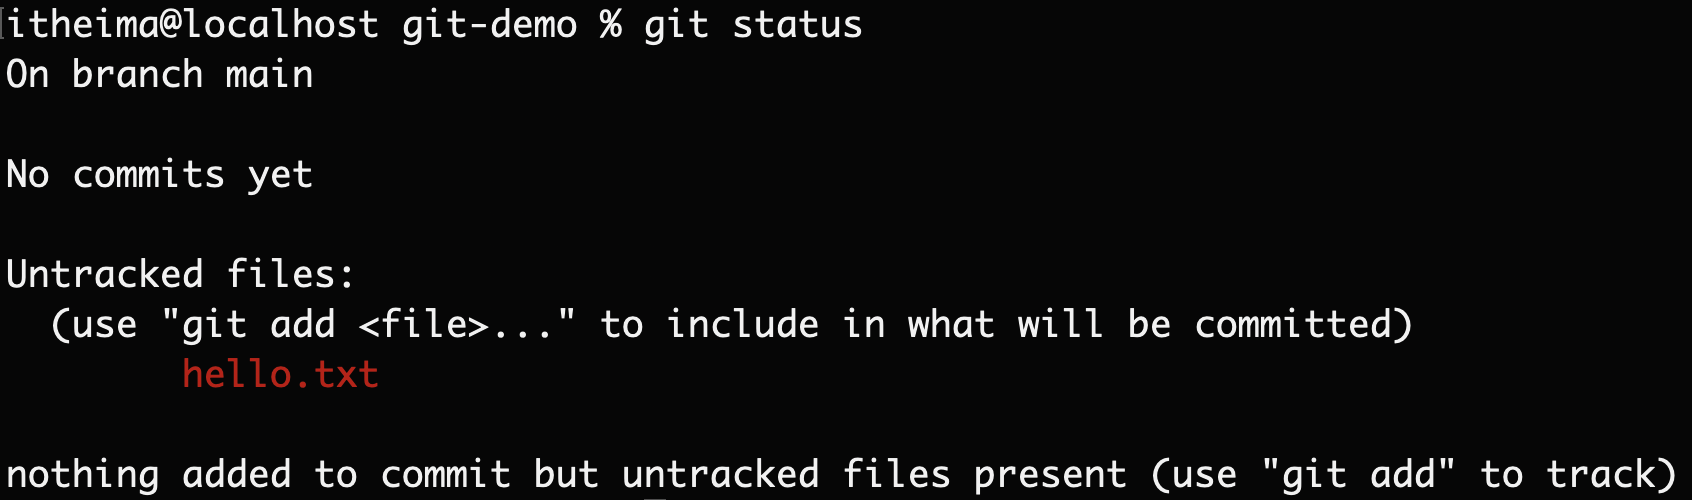
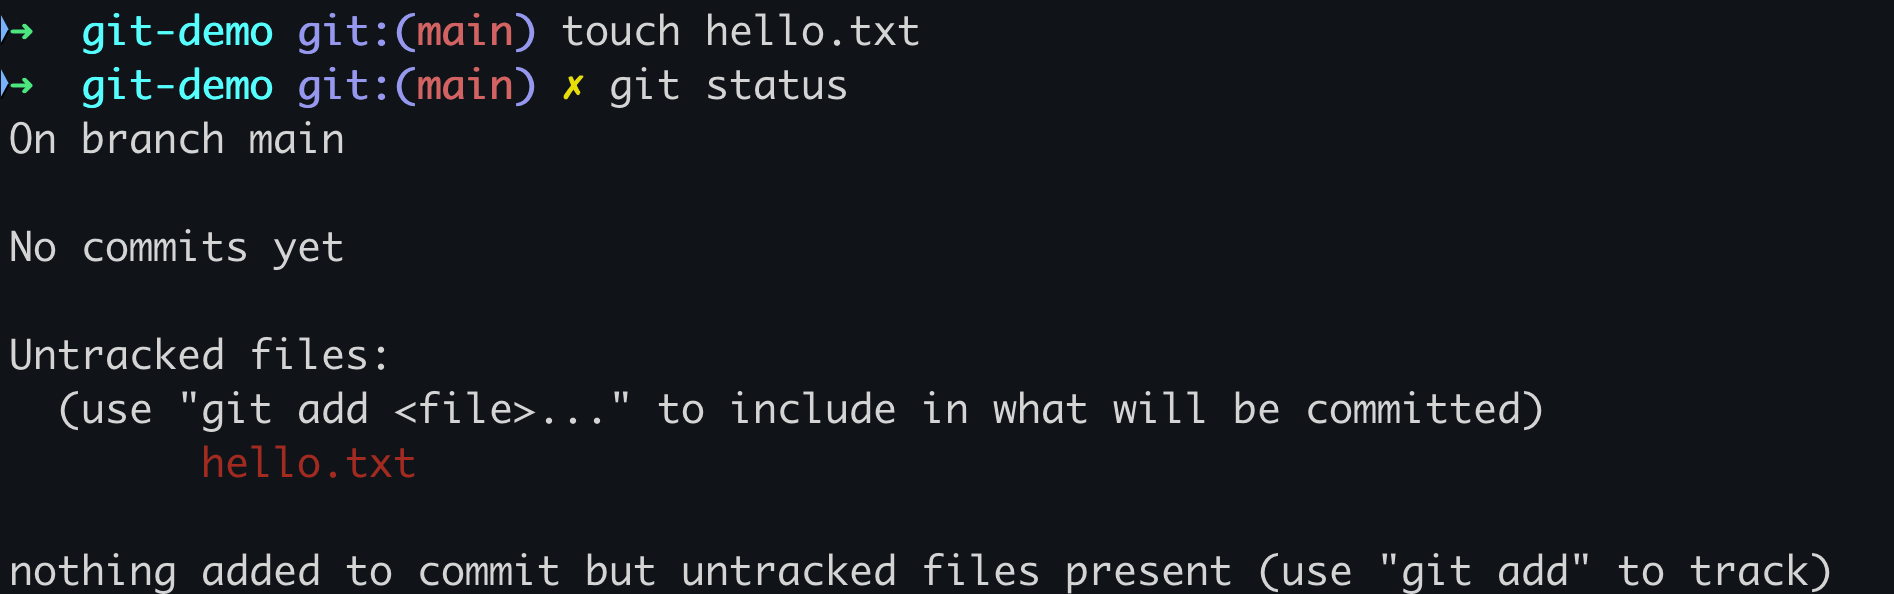
fixed: replace git basic introduction images with iterm

diff --git a/docs/git/git-basics-introduction.md b/docs/git/git-basics-introduction.md
@@ -132,6 +132,8 @@ git config --list
 git init
 ```
 
+![初始化本地仓库](./assets/git-basics/git-init.png)
+
 > **扩展阅读**
 >
 > `git init` 命令会在当前目录下创建一个名为 `.git` 的子目录，这个目录是 Git 仓库的核心部分，包含了所有 Git 需要用来记录版本历史和管理项目的文件和数据。以下是 `.git` 目录的主要组成部分及其作用：
@@ -286,4 +288,4 @@ git revert <提交哈希>
 
 ## 5. 结语
 
-在本篇文章中总结了个人使用 Git 的基础经验，包括基本概念和基本操作，并通过实战练习帮助你更好地理解和掌握这些命令的使用。掌握了这些内容，已经可以开始使用 Git 进行版本控制了。在接下来的文章中，我们将深入探讨 Git 的更多高级功能和最佳实践，期待与你继续交流。
+在本篇文章中总结了个人使用 Git 的基础经验，包括基本概念和基本操作，并通过实战练习帮助你更好地理解和掌握这些命令的使用。掌握了这些内容，已经可以开始使用 Git 进行版本控制了。在接下来的文章中，我们将深入探讨 Git 的**分支管理和协作开发**，期待与你继续交流。
